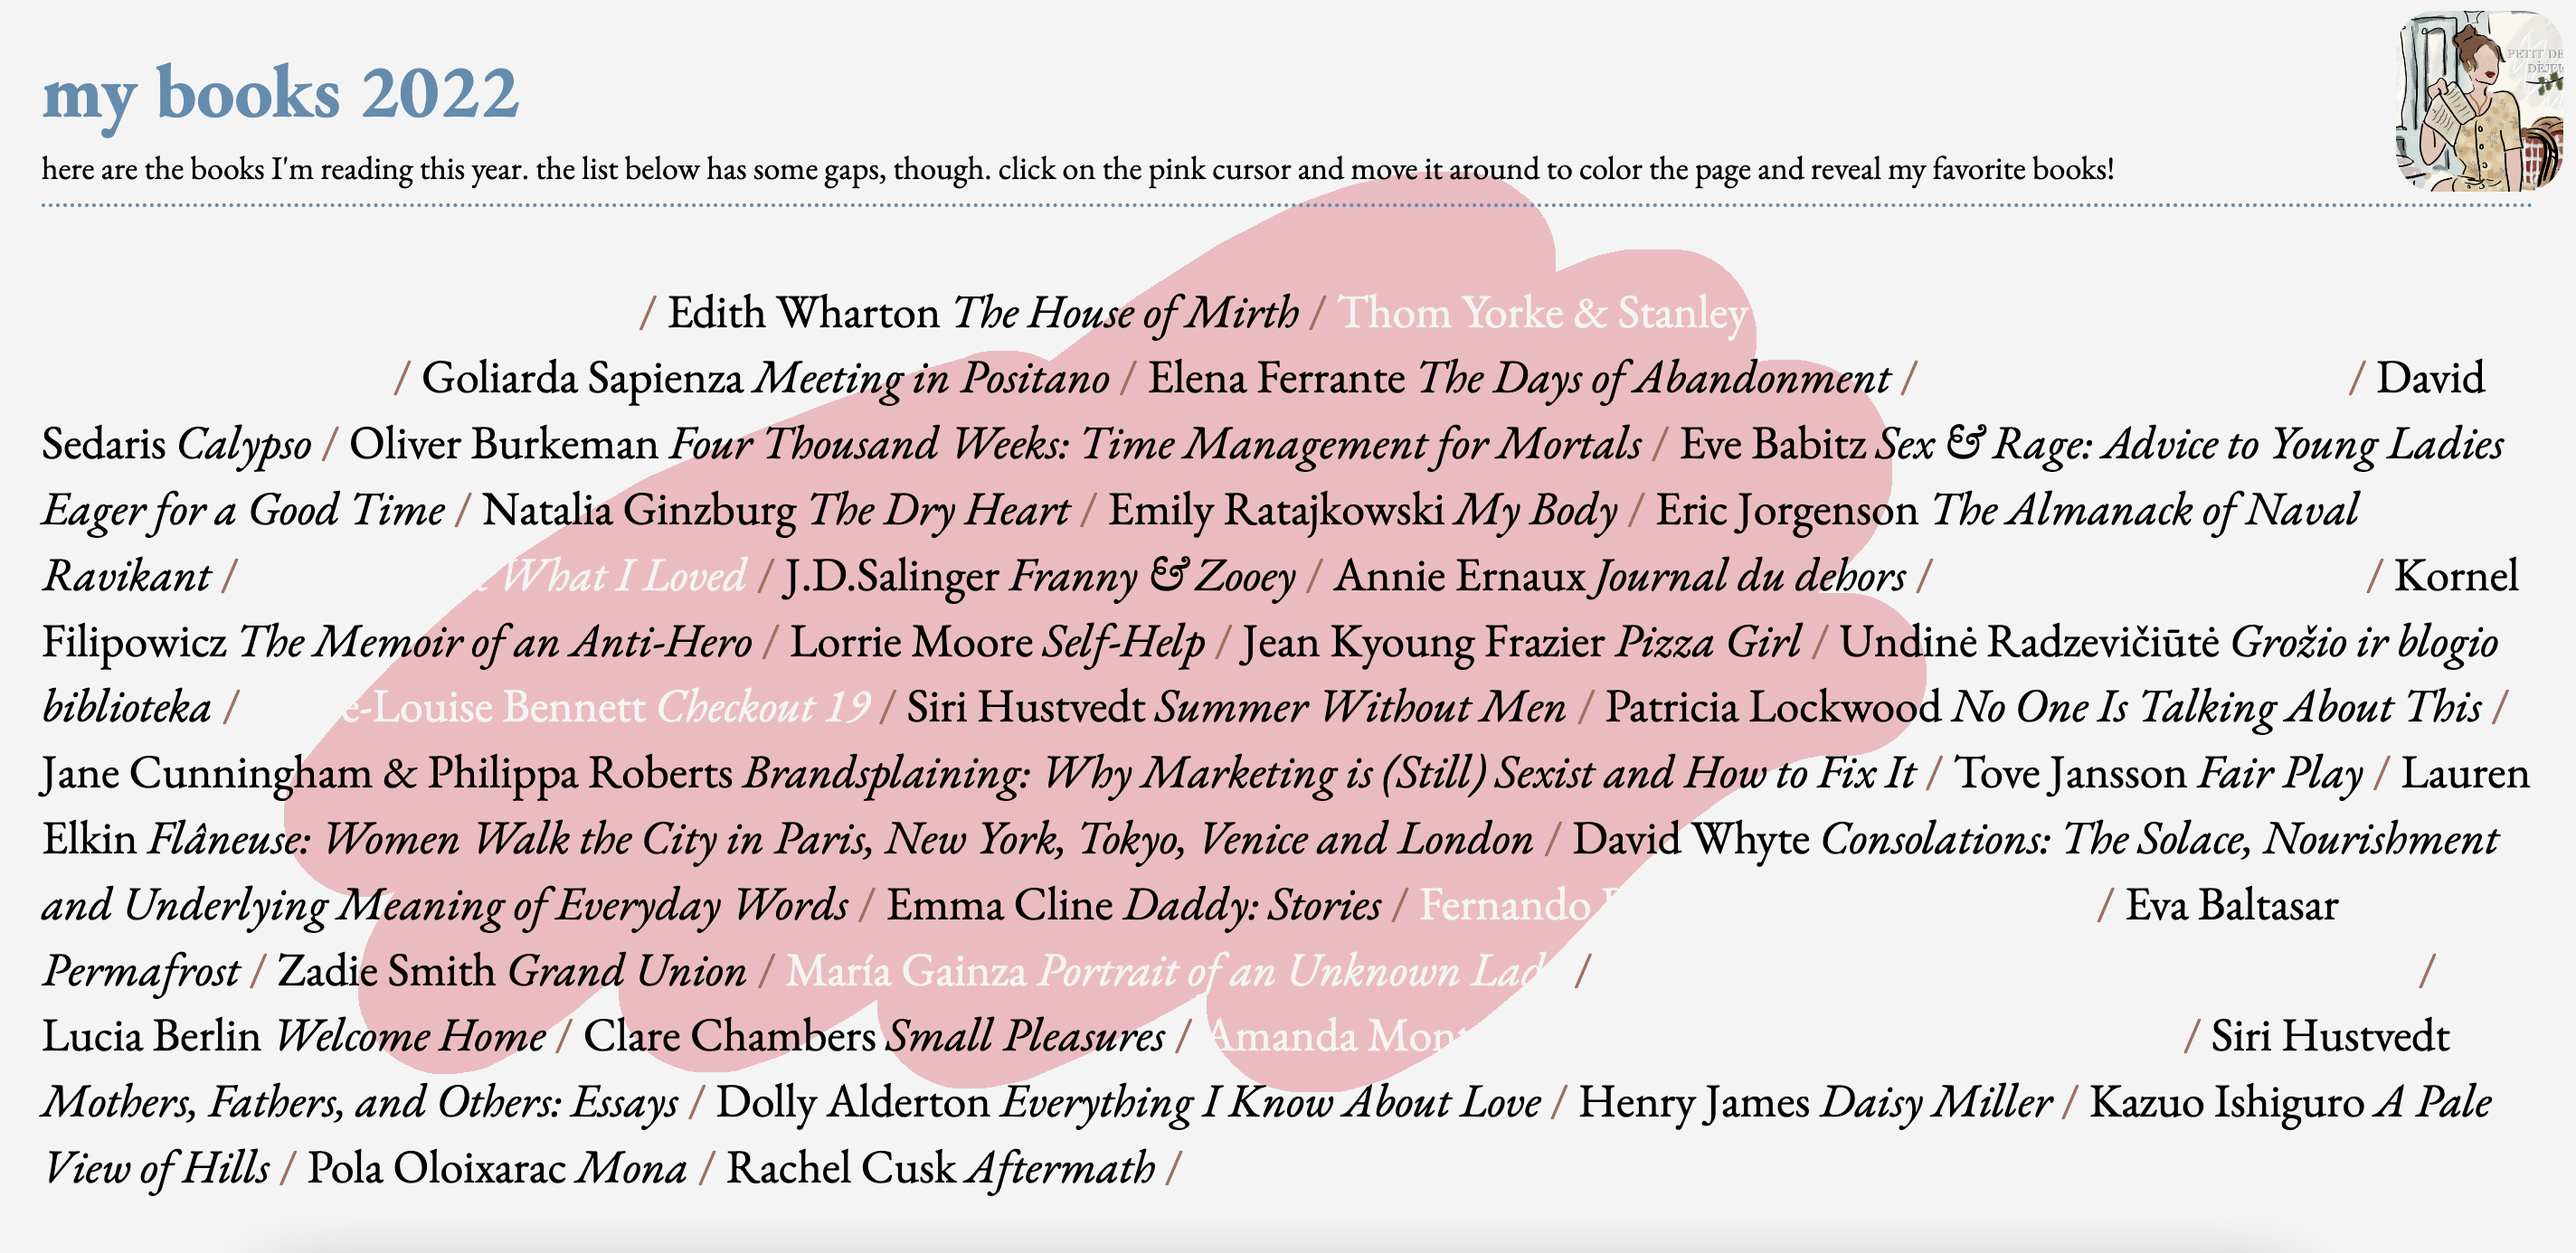
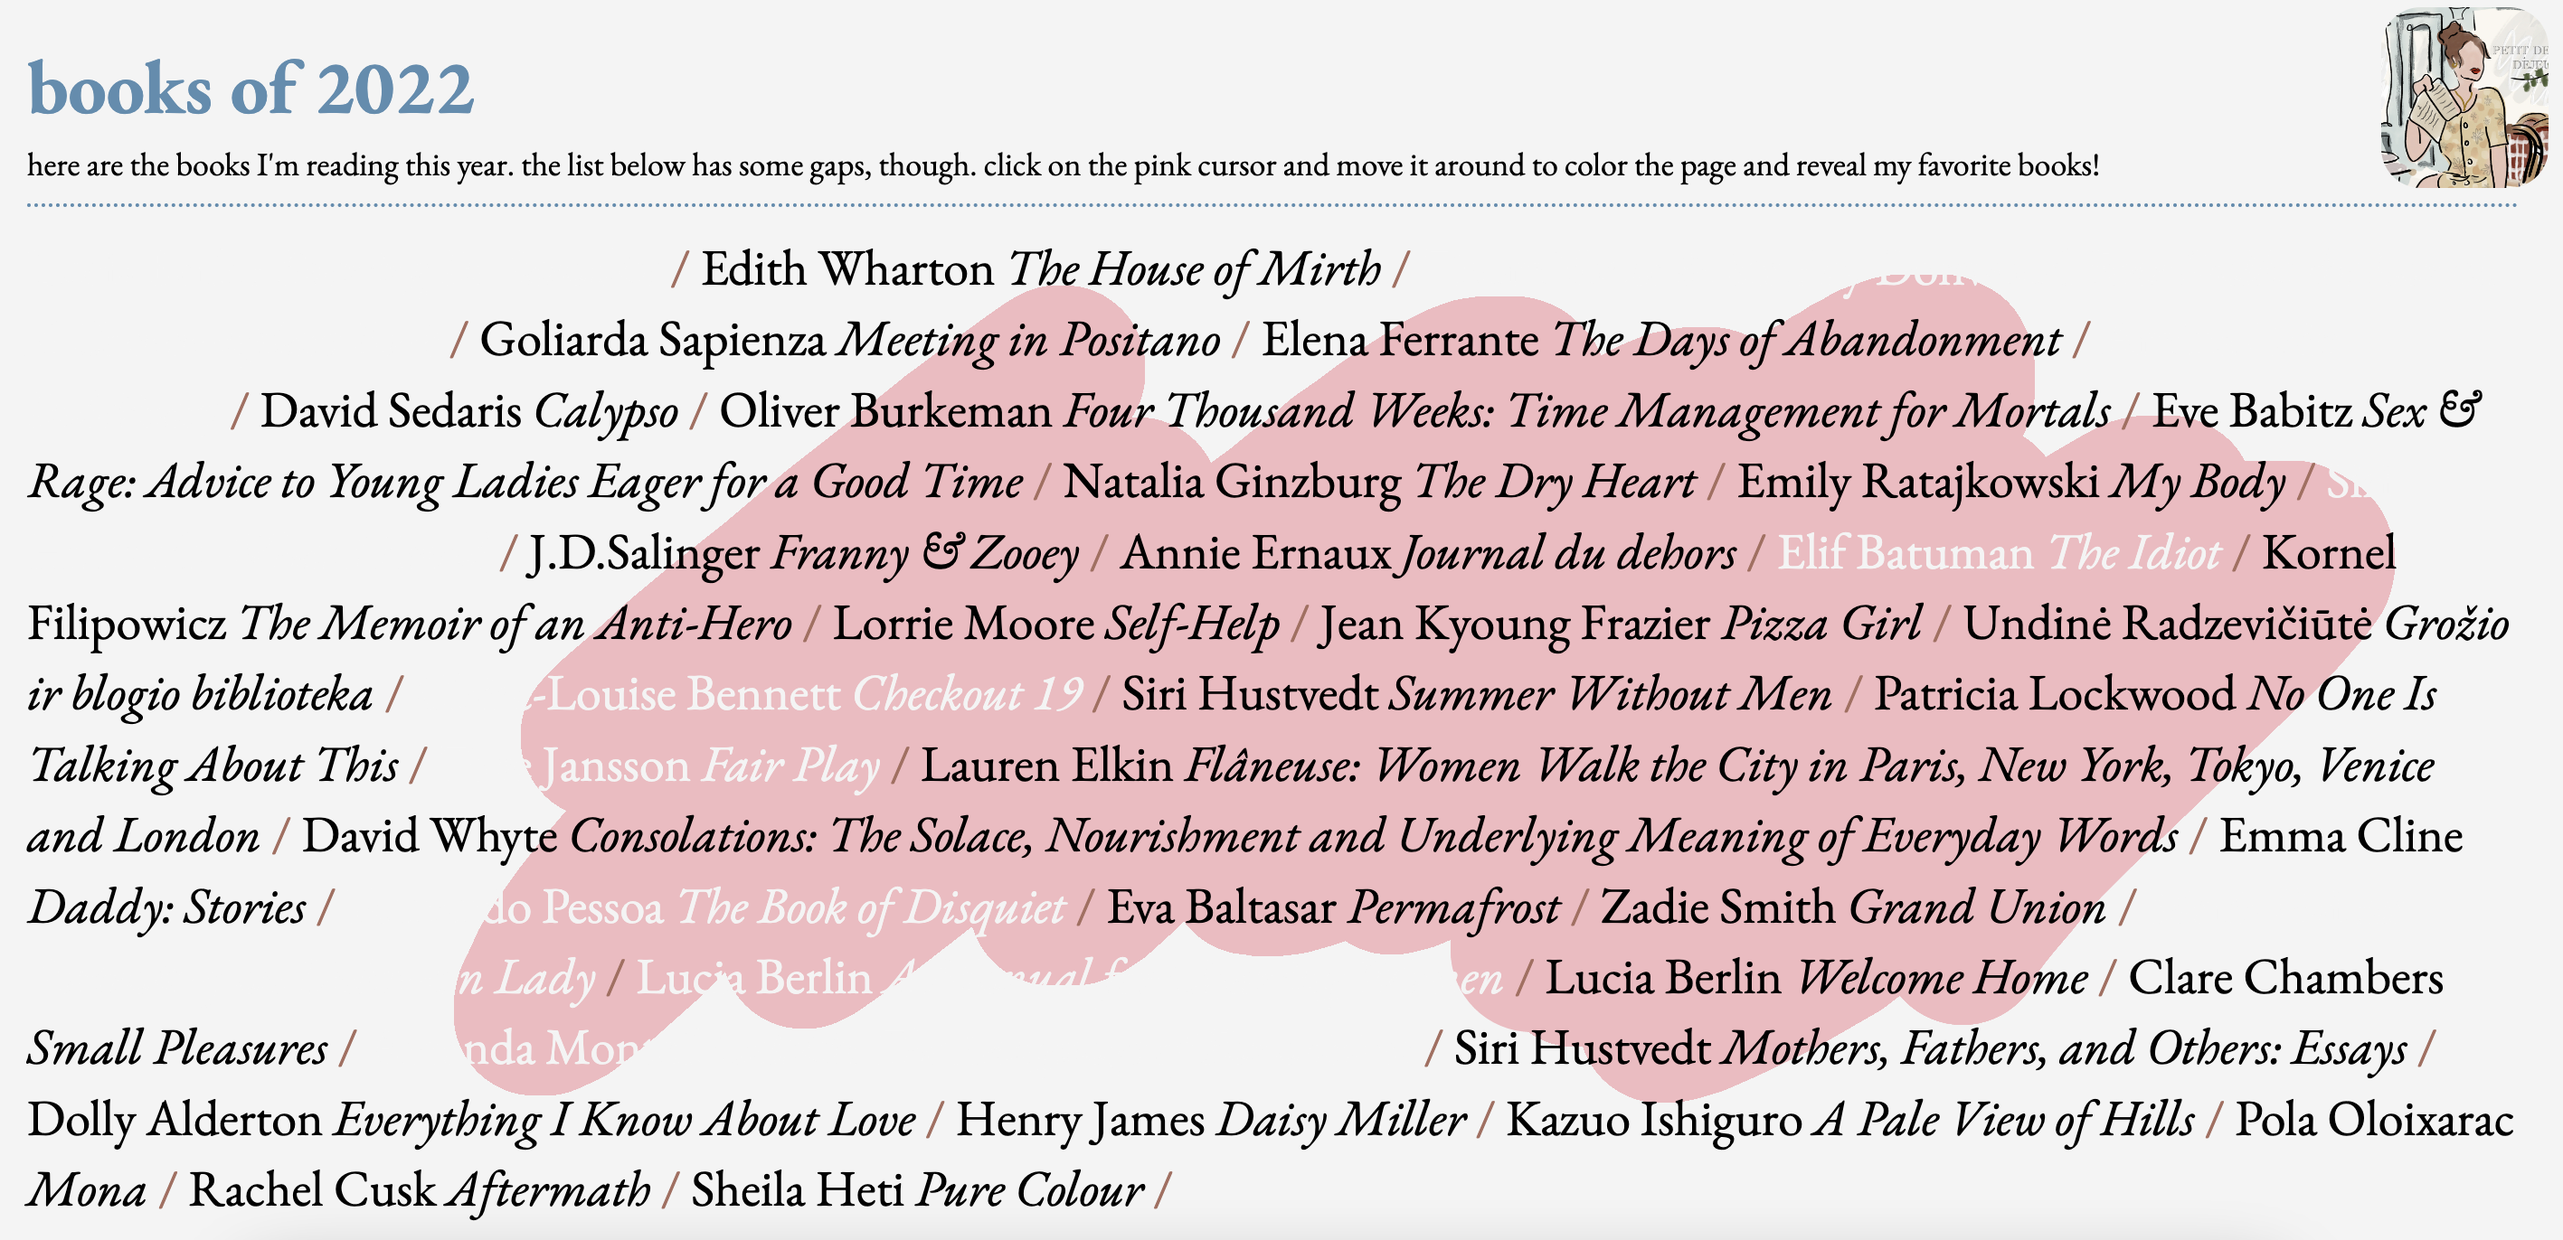
code cleanup and additional styles

diff --git a/index.html b/index.html
@@ -14,13 +14,13 @@
     <body>
         <img class="jelistrop" src="./assets/jelistrop2-cropped.png" />
         <section class="books-list one">
-            <h1>my books 2022</h1>
+            <h1>books of 2022</h1>
             <h2>
                 here are the books I'm reading this year. the list below has some gaps, though.
                 click on the pink cursor and move it around to color the page and reveal my favorite
                 books!
             </h2>
-            <p>
+            <p class="all-books">
                 <span>Lucia Berlin <em>Evening In Paradise</em></span> Edith Wharton
                 <em>The House of Mirth</em>
                 <span
@@ -32,8 +32,7 @@
                 Sedaris <em>Calypso</em> Oliver Burkeman
                 <em>Four Thousand Weeks: Time Management for Mortals</em> Eve Babitz
                 <em>Sex & Rage: Advice to Young Ladies Eager for a Good Time</em> Natalia Ginzburg
-                <em>The Dry Heart</em> Emily Ratajkowski <em>My Body</em> Eric Jorgenson
-                <em>The Almanack of Naval Ravikant</em>
+                <em>The Dry Heart</em> Emily Ratajkowski <em>My Body</em>
                 <span>Siri Hustvedt <em>What I Loved</em></span> J.D.Salinger
                 <em>Franny & Zooey</em> Annie Ernaux <em>Journal du dehors</em>
                 <span>Elif Batuman <em>The Idiot</em></span> Kornel Filipowicz
@@ -41,10 +40,8 @@
                 Frazier <em>Pizza Girl</em> Undinė Radzevičiūtė
                 <em>Grožio ir blogio biblioteka</em>
                 <span>Claire-Louise Bennett <em>Checkout 19</em></span> Siri Hustvedt
-                <em>Summer Without Men</em> Patricia Lockwood
-                <em>No One Is Talking About This</em> Jane Cunningham & Philippa Roberts
-                <em>Brandsplaining: Why Marketing is (Still) Sexist and How to Fix It</em> Tove
-                Jansson <em>Fair Play</em> Lauren Elkin
+                <em>Summer Without Men</em> Patricia Lockwood <em>No One Is Talking About This</em>
+                <span>Tove Jansson <em>Fair Play</em></span> Lauren Elkin
                 <em>Flâneuse: Women Walk the City in Paris, New York, Tokyo, Venice and London</em>
                 David Whyte
                 <em
@@ -61,17 +58,18 @@
                 Hustvedt <em>Mothers, Fathers, and Others: Essays</em> Dolly Alderton
                 <em>Everything I Know About Love</em> Henry James <em>Daisy Miller</em> Kazuo
                 Ishiguro <em>A Pale View of Hills </em> Pola Oloixarac <em>Mona</em> Rachel Cusk
-                <em>Aftermath</em>
+                <em>Aftermath</em> Sheila Heti <em>Pure Colour</em>
             </p>
         </section>
         <canvas></canvas>
         <section class="books-list two">
-            <h1 style="opacity: 0">my books 2022</h1>
-            <p style="opacity: 0">
-                this is a page containing books I've read this year (constantly updated). click and
-                move the cursor to color the page and find out my favorite books!
-            </p>
-            <p>
+            <h1>books of 2022</h1>
+            <h2>
+                here are the books I'm reading this year. the list below has some gaps, though.
+                click on the pink cursor and move it around to color the page and reveal my favorite
+                books!
+            </h2>
+            <p class="all-books">
                 <span>Lucia Berlin <em>Evening In Paradise</em></span> Edith Wharton
                 <em>The House of Mirth</em>
                 <span
@@ -83,8 +81,7 @@
                 Sedaris <em>Calypso</em> Oliver Burkeman
                 <em>Four Thousand Weeks: Time Management for Mortals</em> Eve Babitz
                 <em>Sex & Rage: Advice to Young Ladies Eager for a Good Time</em> Natalia Ginzburg
-                <em>The Dry Heart</em> Emily Ratajkowski <em>My Body</em> Eric Jorgenson
-                <em>The Almanack of Naval Ravikant</em>
+                <em>The Dry Heart</em> Emily Ratajkowski <em>My Body</em>
                 <span>Siri Hustvedt <em>What I Loved</em></span> J.D.Salinger
                 <em>Franny & Zooey</em> Annie Ernaux <em>Journal du dehors</em>
                 <span>Elif Batuman <em>The Idiot</em></span> Kornel Filipowicz
@@ -92,10 +89,8 @@
                 Frazier <em>Pizza Girl</em> Undinė Radzevičiūtė
                 <em>Grožio ir blogio biblioteka</em>
                 <span>Claire-Louise Bennett <em>Checkout 19</em></span> Siri Hustvedt
-                <em>Summer Without Men</em> Patricia Lockwood
-                <em>No One Is Talking About This</em> Jane Cunningham & Philippa Roberts
-                <em>Brandsplaining: Why Marketing is (Still) Sexist and How to Fix It</em> Tove
-                Jansson <em>Fair Play</em> Lauren Elkin
+                <em>Summer Without Men</em> Patricia Lockwood <em>No One Is Talking About This</em>
+                <span>Tove Jansson <em>Fair Play</em></span> Lauren Elkin
                 <em>Flâneuse: Women Walk the City in Paris, New York, Tokyo, Venice and London</em>
                 David Whyte
                 <em
@@ -112,7 +107,7 @@
                 Hustvedt <em>Mothers, Fathers, and Others: Essays</em> Dolly Alderton
                 <em>Everything I Know About Love</em> Henry James <em>Daisy Miller</em> Kazuo
                 Ishiguro <em>A Pale View of Hills </em> Pola Oloixarac <em>Mona</em> Rachel Cusk
-                <em>Aftermath</em>
+                <em>Aftermath</em> Sheila Heti <em>Pure Colour</em>
             </p>
         </section>
         <div class="cursor">

diff --git a/style.css b/style.css
@@ -4,18 +4,11 @@
     box-sizing: border-box;
 }
 
-html,
 body {
     font-family: 'EB Garamond', serif;
     background-color: #f4f4f4;
     cursor: none;
     height: 100vh;
-    /*   position: fixed;
-    top: 0;
-    left: 0;
-    width: 100%;
-    height: 100%;
-    overflow: hidden;  */
 }
 
 img {
@@ -42,15 +35,16 @@ section.books-list h1 {
 
 section.books-list h2 {
     border-bottom: 2px dotted #598db0;
-    padding-bottom: 8px;
+    padding-bottom: 10px;
     font-weight: 300;
     font-size: 18px;
 }
 
-section.books-list p {
-    font-size: 26px;
+section.books-list p.all-books {
+    font-size: 28px;
     font-weight: 400;
     line-height: 1.4;
+    margin-top: 14px;
 }
 
 section.books-list p em::after {
@@ -66,6 +60,11 @@ section.books-list.one span {
 
 section.books-list.one p {
     color: #000;
+    opacity: 0;
+}
+
+section.books-list.two h1,
+section.books-list.two h2 {
     opacity: 0;
 }
 
